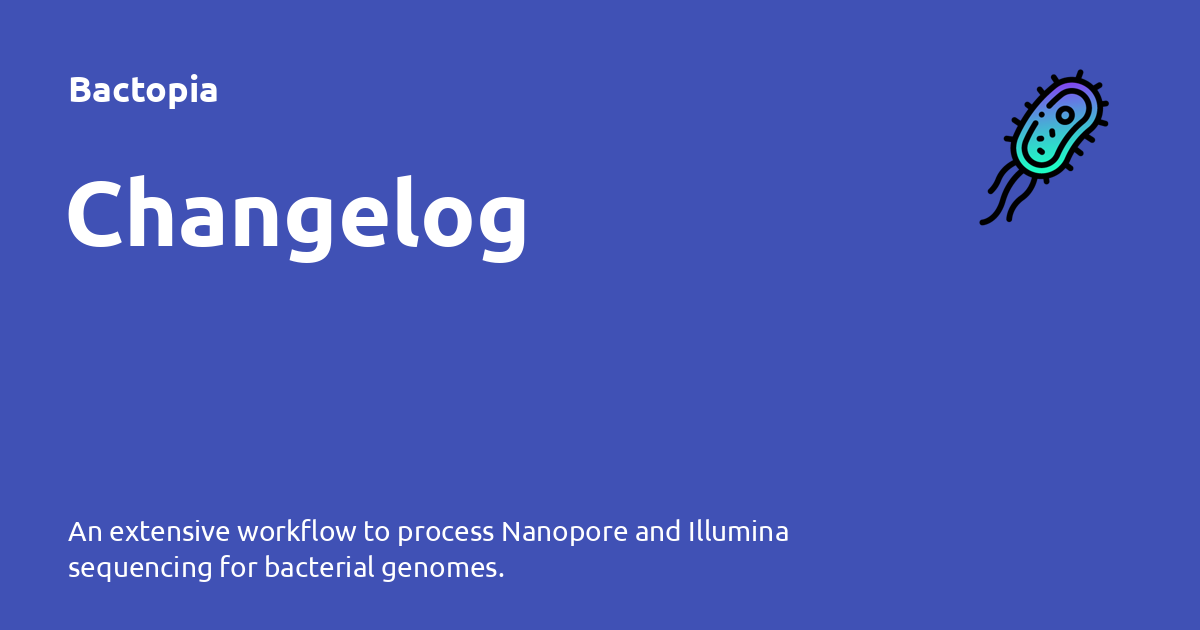
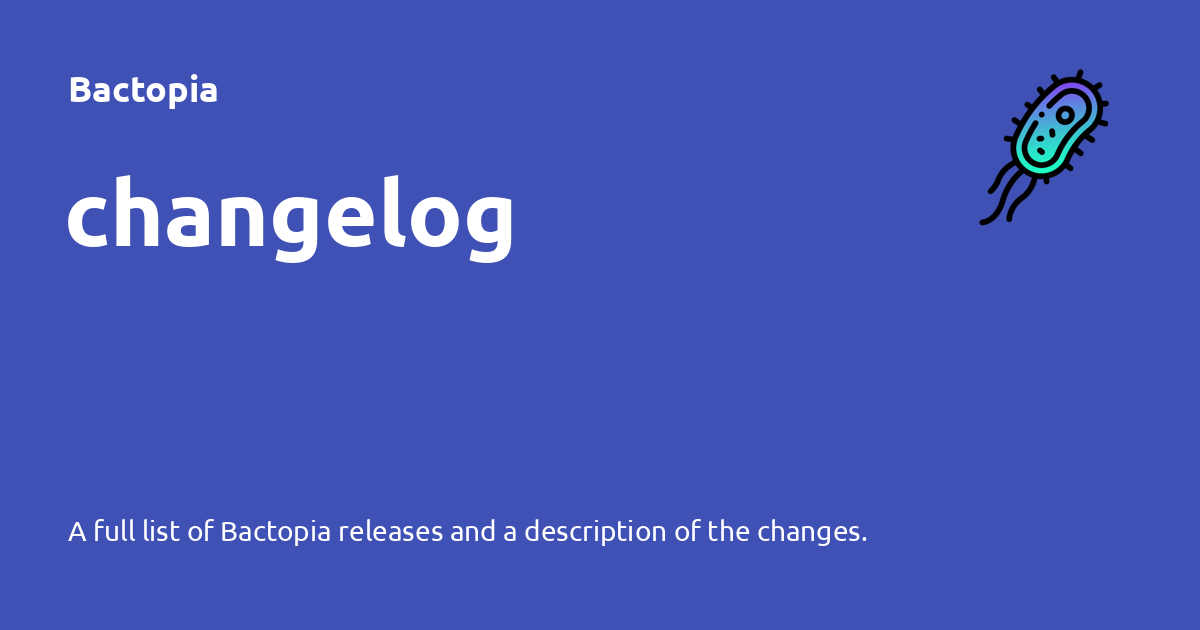
Deployed 6cf3890 to v2.1.1 with MkDocs 1.3.1 and mike 1.1.2

Changed region(s): [[0.0617, 0.8143, 0.74, 0.9349], [0.0617, 0.2714, 0.4625, 0.4222]]

diff --git a/v2.1.1/changelog/index.html b/v2.1.1/changelog/index.html
@@ -6,7 +6,7 @@
       <meta charset="utf-8">
       <meta name="viewport" content="width=device-width,initial-scale=1">
       
-        <meta name="description" content="An extensive workflow to process Nanopore and Illumina sequencing for bacterial genomes.">
+        <meta name="description" content="A full list of Bactopia releases and a description of the changes.">
       
       
         <meta name="author" content="Robert A. Petit III">
@@ -23,7 +23,7 @@
     
     
       
-        <title>Changelog - Bactopia</title>
+        <title>changelog - Bactopia</title>
       
     
     
@@ -72,9 +72,9 @@
       
         <meta  property="og:type"  content="website" >
       
-        <meta  property="og:title"  content="Changelog - Bactopia" >
+        <meta  property="og:title"  content="changelog - Bactopia" >
       
-        <meta  property="og:description"  content="An extensive workflow to process Nanopore and Illumina sequencing for bacterial genomes." >
+        <meta  property="og:description"  content="A full list of Bactopia releases and a description of the changes." >
       
         <meta  property="og:image"  content="https://bactopia.github.io/v2.1.1/assets/images/social/changelog.png" >
       
@@ -88,9 +88,9 @@
       
         <meta  name="twitter:card"  content="summary_large_image" >
       
-        <meta  name="twitter:title"  content="Changelog - Bactopia" >
+        <meta  name="twitter:title"  content="changelog - Bactopia" >
       
-        <meta  name="twitter:description"  content="An extensive workflow to process Nanopore and Illumina sequencing for bacterial genomes." >
+        <meta  name="twitter:description"  content="A full list of Bactopia releases and a description of the changes." >
       
         <meta  name="twitter:image"  content="https://bactopia.github.io/v2.1.1/assets/images/social/changelog.png" >
       
@@ -149,7 +149,7 @@
         <div class="md-header__topic" data-md-component="header-topic">
           <span class="md-ellipsis">
             
-              Changelog
+              changelog
             
           </span>
         </div>

diff --git a/v2.1.1/bactopia-tools/merlin/index.html b/v2.1.1/bactopia-tools/merlin/index.html
@@ -6,7 +6,7 @@
       <meta charset="utf-8">
       <meta name="viewport" content="width=device-width,initial-scale=1">
       
-        <meta name="description" content="A Bactopia Tool which for the automatic selection and executions of  species-specific tools.">
+        <meta name="description" content="A Bactopia Tool for the automatic selection and executions of  species-specific tools.">
       
       
         <meta name="author" content="Robert A. Petit III">
@@ -74,7 +74,7 @@
       
         <meta  property="og:title"  content="merlin - Bactopia" >
       
-        <meta  property="og:description"  content="A Bactopia Tool which for the automatic selection and executions of  species-specific tools." >
+        <meta  property="og:description"  content="A Bactopia Tool for the automatic selection and executions of  species-specific tools." >
       
         <meta  property="og:image"  content="https://bactopia.github.io/v2.1.1/assets/images/social/bactopia-tools/merlin.png" >
       
@@ -90,7 +90,7 @@
       
         <meta  name="twitter:title"  content="merlin - Bactopia" >
       
-        <meta  name="twitter:description"  content="A Bactopia Tool which for the automatic selection and executions of  species-specific tools." >
+        <meta  name="twitter:description"  content="A Bactopia Tool for the automatic selection and executions of  species-specific tools." >
       
         <meta  name="twitter:image"  content="https://bactopia.github.io/v2.1.1/assets/images/social/bactopia-tools/merlin.png" >
       
